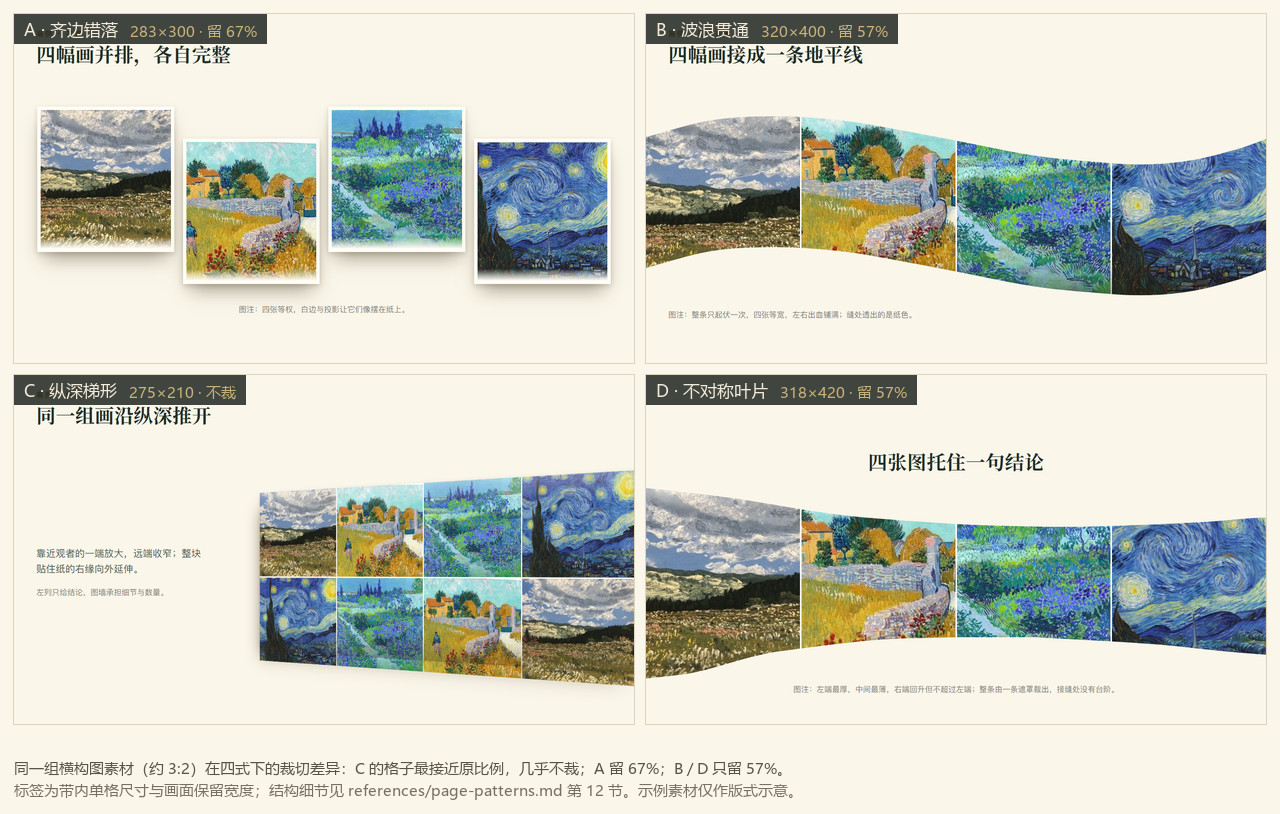
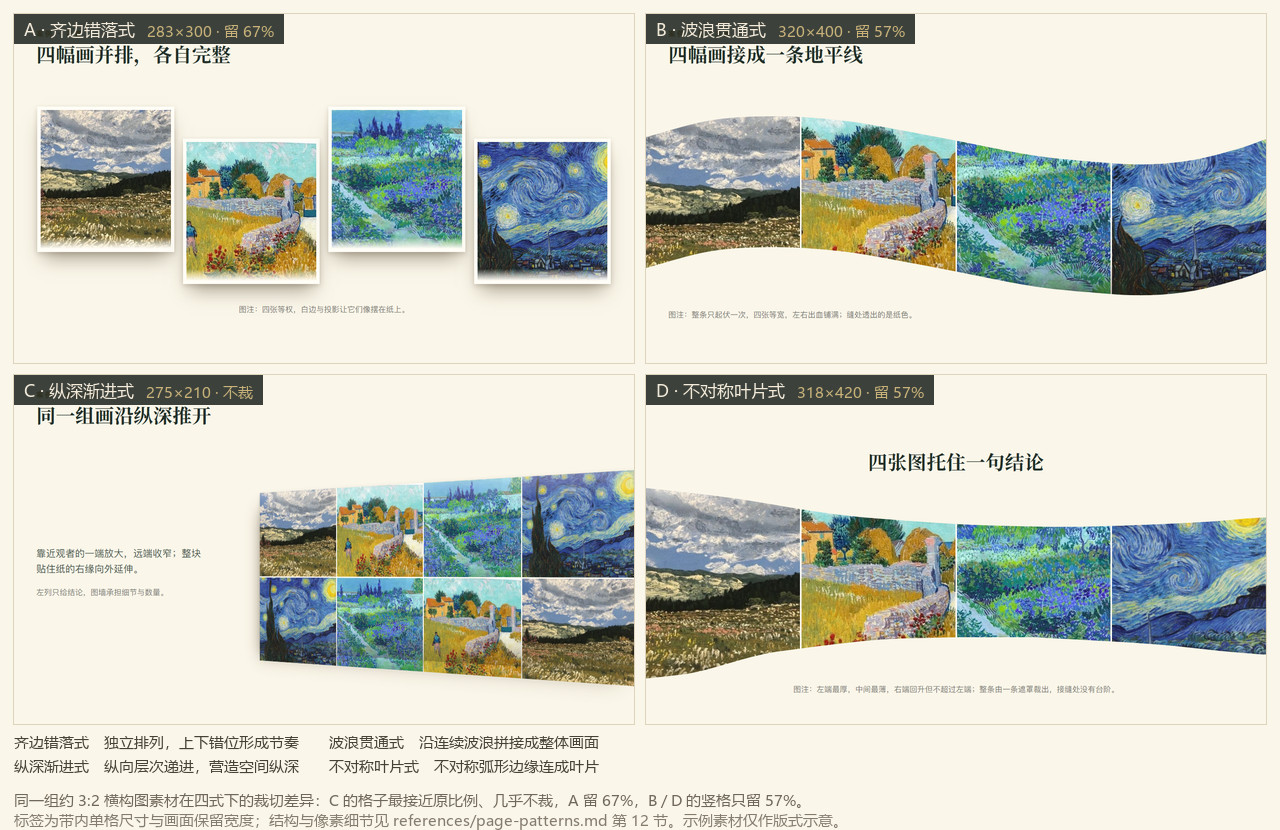
rice-paper-ppt 1.5.9：四式定名并补形态定义，参考图换新素材重出

diff --git a/rice-paper-ppt/SKILL.md b/rice-paper-ppt/SKILL.md
@@ -1,7 +1,7 @@
 ---
 name: rice-paper-ppt
-version: 1.5.8
-description: 制作或改版「米纸质感」风格的 HTML 幻灯片时使用：1280×720 单页文件式 deck，暖米纸底 + 深林绿 + 哑光金的中式编辑版式，衬线大标题、投影级字号（正文不低于 20px，表格/代码不低于 18px），自带 theme.css 版式系统、6 页可运行骨架、十二种版式配方（含多图排版的图片墙五式：矩形错落 / 波浪贯通 / 纵深梯形 / 不对称叶片 / 盘旋丝带，曲线用 clip-path path、纵深用 perspective+rotateY、立体靠暖白拼缝与沿轮廓投影，B/D 的曲线按参考图逐列量得再转贝塞尔，D 左端下缘单调收束不留尖钩，E 是内联 SVG 逐块裁形填图）、可选增强层 fx.js（无 GSAP 时自动退回纯 CSS，有 GSAP 时接管编排，并留出 WebGL / Canvas 的注册接口）与 Playwright 逐页版式审计脚本；视觉与文案双层规范、文案分语言与信息结构两份：版式层固定页码「当前/总页」、章节首页徽记（印章圆环 + 单色线稿）、视频暂停与进度条控件，文案层按 copywriting-spec.md 约束标题、句式、术语与标点，按 content-structure-spec.md 约束专业术语提炼、信息层级重构、内容压缩、章节封面定位与信息可视化，消除机械化对比句式、口语化引导语、模糊代称和空泛营销表达。适用于汇报、路演、方案宣讲、培训、分享会、文化展陈、课程等任何需要大屏投影且讲究纸感的场合，也适用于把已有同类 HTML 幻灯片按这套规范重构（放大字号、消除空旷、修溢出、重排层级、规范文案语言、给一组图排成整墙）。触发词：米纸风 PPT、中式学术风幻灯片、纸感 deck、把这份 PPT 改成米纸风格、HTML 幻灯片改版、放大字号、排得专业点、PPT 文案规范化、PPT 文案精炼、信息结构化、专业术语提炼、去掉模糊代称、章节封面精简、多图排版、几张图怎么排、图片墙、图片错落排布、去掉 AI 味。
+version: 1.5.9
+description: 制作或改版「米纸质感」风格的 HTML 幻灯片时使用：1280×720 单页文件式 deck，暖米纸底 + 深林绿 + 哑光金的中式编辑版式，衬线大标题、投影级字号（正文不低于 20px，表格/代码不低于 18px），自带 theme.css 版式系统、6 页可运行骨架、十二种版式配方（含多图排版的图片墙五式：齐边错落式 / 波浪贯通式 / 纵深渐进式 / 不对称叶片式 / 盘旋丝带，曲线用 clip-path path、纵深用 perspective+rotateY、立体靠暖白拼缝与沿轮廓投影，B/D 的曲线按参考图逐列量得再转贝塞尔，D 左端下缘单调收束不留尖钩，E 是内联 SVG 逐块裁形填图）、可选增强层 fx.js（无 GSAP 时自动退回纯 CSS，有 GSAP 时接管编排，并留出 WebGL / Canvas 的注册接口）与 Playwright 逐页版式审计脚本；视觉与文案双层规范、文案分语言与信息结构两份：版式层固定页码「当前/总页」、章节首页徽记（印章圆环 + 单色线稿）、视频暂停与进度条控件，文案层按 copywriting-spec.md 约束标题、句式、术语与标点，按 content-structure-spec.md 约束专业术语提炼、信息层级重构、内容压缩、章节封面定位与信息可视化，消除机械化对比句式、口语化引导语、模糊代称和空泛营销表达。适用于汇报、路演、方案宣讲、培训、分享会、文化展陈、课程等任何需要大屏投影且讲究纸感的场合，也适用于把已有同类 HTML 幻灯片按这套规范重构（放大字号、消除空旷、修溢出、重排层级、规范文案语言、给一组图排成整墙）。触发词：米纸风 PPT、中式学术风幻灯片、纸感 deck、把这份 PPT 改成米纸风格、HTML 幻灯片改版、放大字号、排得专业点、PPT 文案规范化、PPT 文案精炼、信息结构化、专业术语提炼、去掉模糊代称、章节封面精简、多图排版、几张图怎么排、图片墙、图片错落排布、去掉 AI 味。
 license: MIT
 ---
 
@@ -111,7 +111,7 @@ cp -r rice-paper-ppt ~/.claude/skills/
 | 分部分 | 章节分隔（深绿章板） | 底色加重 + 超大编号 + 大标题 + 3 条要点 + 一句格言 + **本章徽记** |
 | 讲一个案例 | 图文分栏 | 图占 45–65%，文字只留 3 条结论 |
 | 两案对照 | 双栏并列 | 等宽两列 + 一条 `.bar` 收束 |
-| 并置一组图 | 图片墙五式 | A 4–5 张照片卡错落 / B 4 张通栏大 S 出血（波峰 20%、波谷 81%）/ C 8 张透视纵深贴右缘 / D 4–5 张一条遮罩裁出的不对称叶片 / E 7 块盘绕丝带（内联 SVG，右列竖塔）；文字只留一条标题带。同素材对照图 `examples/wall-four.jpg`、E 式示例 `examples/wall-coil.jpg` |
+| 并置一组图 | 图片墙五式 | A 齐边错落式 4–5 张照片卡上下错位 / B 波浪贯通式 4 张通栏大 S 出血（波峰 20%、波谷 81%）/ C 纵深渐进式 8 张透视纵深贴右缘 / D 不对称叶片式 4–5 张一条遮罩裁出不规则叶片 / E 盘旋丝带 7 块盘绕（内联 SVG，右列竖塔）；文字只留一条标题带。同素材对照图 `examples/wall-four.jpg`、E 式示例 `examples/wall-coil.jpg` |
 | 比参数 / 比方案 | 表格 | 4–7 行；7 行以上用 `.tbl.tight` |
 | 展示一段原文 | 引文框 | `pbox` + 结果图 + 高亮本次新增部分 |
 | 讲步骤 | 横向流程 | 4 节点 + 旁注 + `.bar` |
@@ -121,8 +121,8 @@ cp -r rice-paper-ppt ~/.claude/skills/
 
 **相邻页不要用同一种版式。** 三页连排卡片网格，看起来就像模板没做完。
 
-多图并置的页面按「图片墙五式」选母题：矩形错落讲并列、波浪贯通讲连续、纵深梯形讲层进、
-不对称叶片讲收束、盘旋丝带讲一段有起点与终点的行进。选型先看内容关系，再看落位：
+多图并置的页面按「图片墙五式」选母题：齐边错落式讲并列、波浪贯通式讲连续、纵深渐进式讲层进、
+不对称叶片式讲收束、盘旋丝带讲一段有起点与终点的行进。选型先看内容关系，再看落位：
 B/D 左右出血铺满画布，C 右缘出血贴边并向左收，E 是右列一座竖塔、不铺满。
 五式都不给每张图单独配卡片，立体感只来自四件事——暖白拼缝（3px、`#FFFDF6`）、
 沿轮廓的 `drop-shadow`、边缘顶亮底暗、尺寸或位置的错落；发光与玻璃一律不用。
@@ -329,7 +329,8 @@ rice-paper-ppt/
   裁剪类图墙一律用 `filter:drop-shadow()`。
 - **横图塞进竖格**：图墙一格约 318×420（五张时 253×420），3:2 的横图用 `cover` 只剩 57%（五张 45%）宽，
   默认居中常把主体切掉。选式按裁切量排：C（275×210，几乎不裁）> A（283×300）> B/D（只留 57%）；
-  按主体逐张给 `object-position`，或减到四张、改用 A 式照片卡；
+  按主体逐张给 `object-position`：主体贴画幅边缘就直接推到底（星月夜的月亮要 `100%`，不是 62%），
+  或减到四张、改用 A 式照片卡；
   要保住整幅构图就别进图墙。
 - **引导语复述标题**：`lead` 写本页结论与判断依据，不复述、不换个说法重说标题。
 - **文案带 AI 模板腔**：出现「不是……而是……」「从……走向……」「一句话说清」「赋能、闭环」等句式或词汇，

diff --git a/rice-paper-ppt/references/page-patterns.md b/rice-paper-ppt/references/page-patterns.md
@@ -186,12 +186,12 @@ SVG 的 presentation attribute 不吃 `var()`，所以别在图标里写 `var(--
 五式对应五种内容关系，选错式比排得不好看更糟。**同一组四张横图在前四式下的实拍对照见
 `examples/wall-four.jpg`**（单格尺寸与画面保留宽度都标在图上），下面各式的参数与它一一对应：
 
-| 式 | 母题 | 内容关系 | 图数 | 落位 | 文字 |
+| 式 | 形态 | 内容关系 | 图数 | 落位 | 文字 |
 |---|---|---|---|---|---|
-| A 齐边错落 | 矩形照片卡，散放 | 并列、等权、可比较 | 4–5 | 内容区内，两侧留纸边 | 图下居中标题带 |
-| B 波浪贯通 | 一整条大 S，只起伏一次 | 连续、推移、无断点 | 4 | 左右出血，铺满画布 | 图下左对齐标题带 |
-| C 纵深梯形 | 沿垂直轴旋转的 4×2 网格 | 层进、体系、过程归档 | 8 | 右缘出血贴边，向左收 | 左列结论，两条以内 |
-| D 不对称叶片 | 一条遮罩裁出的变厚度带 | 收束、汇总、收尾 | 4–5 | 左右出血，铺满画布 | 图上居中标题 + 一行图注 |
+| A 齐边错落式 | 多张独立排列，靠上下错位形成节奏 | 并列、等权、可比较 | 4–5 | 内容区内，两侧留纸边 | 图下居中标题带 |
+| B 波浪贯通式 | 沿连续波浪曲线拼接，形成整体画面 | 连续、推移、无断点 | 4 | 左右出血，铺满画布 | 图下左对齐标题带 |
+| C 纵深渐进式 | 按纵向层次递进，营造空间纵深 | 层进、体系、过程归档 | 8 | 右缘出血贴边，向左收 | 左列结论，两条以内 |
+| D 不对称叶片式 | 以不对称弧形边缘连接，形成叶片效果 | 收束、汇总、收尾 | 4–5 | 左右出血，铺满画布 | 图上居中标题 + 一行图注 |
 | E 盘旋丝带 | 一条带子绕一圈半，切成七块 | 行进、绕行，有起点与终点 | 7（5–7 张图） | 右列竖塔 430×485，不铺满 | 左列，导语 + 标题 + 2 条 |
 
 样式在 `assets/theme.css` 的「图片墙」段：`.wall` 打底，修饰类分别是
@@ -214,7 +214,10 @@ SVG 的 presentation attribute 不吃 `var()`，所以别在图标里写 `var(--
 
 B / C / D 的完整骨架见 `references/components.md` 第八节「图片墙」。
 
-### A 齐边错落（照片卡）
+### A 齐边错落式（照片卡）
+
+> 多张图片独立排列，通过上下错位形成节奏感。
+
 
 - 结构：`.wall.w-stag` 里放四个 `.pc`。`pc` 是照片卡：`padding:7px` 当白边、底色 `#FFFDF6`、
   高度 300px、双层投影 `0 24px 38px -14px rgba(74,58,34,.50)`；`img` 撑满卡片、`object-fit:cover`。
@@ -224,7 +227,10 @@ B / C / D 的完整骨架见 `references/components.md` 第八节「图片墙」
   挂在 `img` 上会把投影一起淡掉，悬浮感跟着消失。
 - 坑：五张时单张宽度不足 210px，人脸开始难辨，改 C 式；偶数列下移超过 80px 会掉出内容区。
 
-### B 波浪贯通
+### B 波浪贯通式
+
+> 多张图片沿连续波浪曲线拼接，形成整体画面。
+
 
 **四张图，一整条 S，只起伏一次。**做成多个小碎波就成了“波浪边框”，不是飘带。
 
@@ -245,7 +251,10 @@ B / C / D 的完整骨架见 `references/components.md` 第八节「图片墙」
 - `::after` 压一层顶亮底暗（白 50%→14%、暗 34%→18%），补上弯曲受光。
 - 坑：起伏超过 130px 会在地脚挖出一个大月牙，图注没处放；`mask-image` 引用外部 SVG，离线打印会丢遮罩。
 
-### C 纵深梯形
+### C 纵深渐进式
+
+> 图片按纵向层次递进排列，营造空间纵深感。
+
 
 **真透视，不是斜切。** `skewX` 只把矩形推成平行四边形，没有近大远小；
 要右大左小、向内收，必须 `perspective` + `rotateY`。
@@ -263,7 +272,10 @@ B / C / D 的完整骨架见 `references/components.md` 第八节「图片墙」
 - 坑：角度超过 30° 图片内容开始明显拉伸，文字细节读不清；`width` 小于 1000 时可见宽不足 800，
   左缘会掉到文字列上；别用 `rotateY` 但忘了 `perspective` 写在 `transform` 里，那样完全没有纵深。
 
-### D 不对称叶片
+### D 不对称叶片式
+
+> 图片以不对称弧形边缘连接，形成叶片般的视觉效果。
+
 
 **左端最厚、中间最薄、右端回升但不超过左端。** 关键是**一条遮罩裁整墙**，不是五张各改高度。
 
@@ -296,7 +308,10 @@ B / C / D 的完整骨架见 `references/components.md` 第八节「图片墙」
 - 坑：**横构图素材进竖格会被裁掉一大半宽**。带内侧一格约 318×420（宽高比 0.76，五张时只有 253×420），
   常见 3:2 横图是 1.5，`cover` 只留下约 **57% 的画面宽度（五张时 45%）**。所以：
   横图配 D，四张比五张安全；按主体逐张给 `object-position`（风景留地平线、月亮/主体靠哪就偏哪），
-  别一律 50%（实测星月夜取 `62% 50%` 才保住金色月亮）；要保住整幅构图就别用 D/B，改 A 照片卡或图文分栏。
+  别一律 50%。**主体贴画幅边缘时直接推到底**：星月夜的月亮几乎贴着原图右缘，
+  格宽 57% 时 50%/62% 都只剩半个圆，要 `100% 50%` 才完整；同一张在 A 格（0.94，留 71%）取 `62%` 能同时留住柏树与月亮。
+  规律是「格越窄越要偏向主体」，不是套一个固定百分比。
+  要保住整幅构图就别用 D/B，改 A 照片卡或图文分栏。
   横图选式有明确顺序：**C 最省**（格 275×210≈1.31，接近 3:2，几乎不裁）→ **A 次之**（283×300，留 67%）
   → **B / D 最狠**（320×400 / 318×420，只留 57%）。同一组横图要连排五式，就该让 C 承担全貌、B/D 承担氛围。
 

diff --git a/rice-paper-ppt/README.md b/rice-paper-ppt/README.md
@@ -26,8 +26,8 @@ serif display type, projection-scaled typography, a writing-style spec, and a Pl
   不依赖网络、不依赖构建、不需要 Office。
 - **六页可运行骨架**：封面 / 章节 / 图文 / 表格 / 流程 / 结语，改文案即成片，不从空白页写起。
 - **十二种版式配方**：按「页面作用」选版面，相邻页强制换版式，避免通篇卡片网格。
-- **多图排版五式**：矩形错落讲并列（4–5 张照片卡）、波浪贯通讲连续（4 张通栏大 S，只起伏一次）、
-  纵深梯形讲层进（8 张沿垂直轴旋转，右缘贴边、近大远小）、不对称叶片讲收束（4–5 张同高，
+- **多图排版五式**：齐边错落式讲并列（4–5 张照片卡）、波浪贯通式讲连续（4 张通栏大 S，只起伏一次）、
+  纵深渐进式讲层进（8 张沿垂直轴旋转，右缘贴边、近大远小）、不对称叶片式讲收束（4–5 张同高，
   容器一条遮罩裁出左厚、中小、右回升的连续轮廓）、盘旋丝带讲一段有起点的历程（7 块不规则形状沿
   一条带子盘绕，每块各填一张图）。墙内等宽白缝、不逐图配卡；立体感来自暖白拼缝、
   沿轮廓投影、边缘顶亮底暗与尺寸错落，不用发光和玻璃。`theme.css` 已内置五式、标题带与 0.7s 入场动画，
@@ -59,7 +59,7 @@ serif display type, projection-scaled typography, a writing-style spec, and a Pl
 第五式 E 换几何语言：一条内联 SVG 里七块各裁各形、各填各图，白缝靠同一批 path 再描一遍。
 
 <p align="center">
-  <img src="examples/wall-four.jpg" width="900" alt="同一组四张横构图素材在四式下的对照：A 齐边错落 / B 波浪贯通 / C 纵深梯形 / D 不对称叶片" />
+  <img src="examples/wall-four.jpg" width="900" alt="同一组四张横构图素材在四式下的对照：A 齐边错落式 / B 波浪贯通式 / C 纵深渐进式 / D 不对称叶片式" />
 </p>
 
 同一组素材（约 3:2 横构图）在四式下的实际裁切差异一眼可见：C 的格子最接近原比例、几乎不裁，
@@ -73,13 +73,13 @@ E 不是「摊开」而是「走进去」：带子绕一圈半，七块从顶部
   <img src="examples/wall-coil.jpg" width="900" alt="E 盘旋丝带：七块不规则形状沿一条带子盘绕，每块填一张图，右列竖塔 430×485，1280×720 满版" />
 </p>
 
-| 式 | 讲什么 | 图数 | 单格 | 横构图保留宽度 |
-|---|---|---|---|---|
-| **A 齐边错落** | 并列、等权、可比较 | 4–5 | 283×300 照片卡 | 67% |
-| **B 波浪贯通** | 连续、推移、无断点 | 4 | 320×400，通栏大 S | 57% |
-| **C 纵深梯形** | 层进、体系、过程归档 | 8 | 275×210，`rotateY(-25deg)` | 几乎不裁 |
-| **D 不对称叶片** | 收束、汇总、收尾 | 4–5 | 318×420，一条遮罩 | 57% |
-| **E 盘旋丝带** | 行进、绕行，有起点与终点 | 7 块（5–7 张图） | 最大 241×146、最小 87×53 | 竖格同 D，但最深的块只有 164 |
+| 式 | 形态 | 用于 | 图数 | 单格 | 横构图保留宽度 |
+|---|---|---|---|---|---|
+| **A 齐边错落式** | 多张独立排列，靠上下错位形成节奏 | 并列、等权、可比较 | 4–5 | 283×300 照片卡 | 67% |
+| **B 波浪贯通式** | 沿连续波浪曲线拼接，形成整体画面 | 连续、推移、无断点 | 4 | 320×400，通栏大 S | 57% |
+| **C 纵深渐进式** | 按纵向层次递进排列，营造空间纵深 | 层进、体系、过程归档 | 8 | 275×210，`rotateY(-25deg)` | 几乎不裁 |
+| **D 不对称叶片式** | 以不对称弧形边缘连接，形成叶片效果 | 收束、汇总、收尾 | 4–5 | 318×420，一条遮罩 | 57% |
+| **E 盘旋丝带** | 七块沿一条带子盘绕，有起点与终点 | 行进、绕行 | 7 块（5–7 张图） | 最大 241×146、最小 87×53 | 竖格同 D，但最深的块只有 164 |
 
 - **横构图素材优先 C**（格子接近 3:2），A 次之；B / D 的竖格会裁掉约四成宽，更适合承担氛围。
   要保住整幅构图，就别进图墙，改照片卡或图文分栏。

diff --git a/rice-paper-ppt/references/components.md b/rice-paper-ppt/references/components.md
@@ -136,7 +136,7 @@
 立体感只靠四件事：暖白拼缝、沿轮廓的柔投影、边缘顶亮底暗、尺寸或位置错落；不做发光与玻璃：
 
 ```html
-<!-- A 齐边错落：四张照片卡，白边 + 投影 + 底部渐隐 + 上下错落 -->
+<!-- A 齐边错落式：四张照片卡，白边 + 投影 + 底部渐隐 + 上下错落 -->
 <div class="wall w-stag">
   <div class="pc"><img src="assets/a1.jpg" alt=""></div>
   <div class="pc"><img src="assets/a2.jpg" alt=""></div>
@@ -145,14 +145,14 @@
 </div>
 <div class="wcap"><div class="wt">同一场景的四次取景</div><div class="figcap">图注：只承担并置比较。</div></div>
 
-<!-- B 波浪贯通：四张，左右出血铺满；墙宽写死在 path 里，必须 1280px -->
+<!-- B 波浪贯通式：四张，左右出血铺满；墙宽写死在 path 里，必须 1280px -->
 <div class="wall w-wave">
   <img src="assets/b1.jpg" alt=""><img src="assets/b2.jpg" alt="">
   <img src="assets/b3.jpg" alt=""><img src="assets/b4.jpg" alt="">
 </div>
 <div class="wcap-l"><div class="wt">四张接成一条季节带</div><div class="figcap">图注：整条只起伏一次。</div></div>
 
-<!-- C 纵深梯形：左文右墙，右缘出血贴边；rotateY 必须有 perspective -->
+<!-- C 纵深渐进式：左文右墙，右缘出血贴边；rotateY 必须有 perspective -->
 <div class="grow" style="display:grid;grid-template-columns:30% 1fr;gap:20px">
   <div class="col" style="justify-content:center;gap:12px">
     <div class="wt" style="margin:0">八张过程图沿纵深铺开</div>
@@ -166,7 +166,7 @@
   </div>
 </div>
 
-<!-- D 不对称叶片：标题在上、图注在叶片下方的凹口里 -->
+<!-- D 不对称叶片式：标题在上、图注在叶片下方的凹口里 -->
 <div class="sb" style="justify-content:center">
   <div class="wcap"><div class="wt" style="font-size:var(--fs-h1); margin:0">五张图托住一句结论</div></div>
   <div class="wall w-fan">
